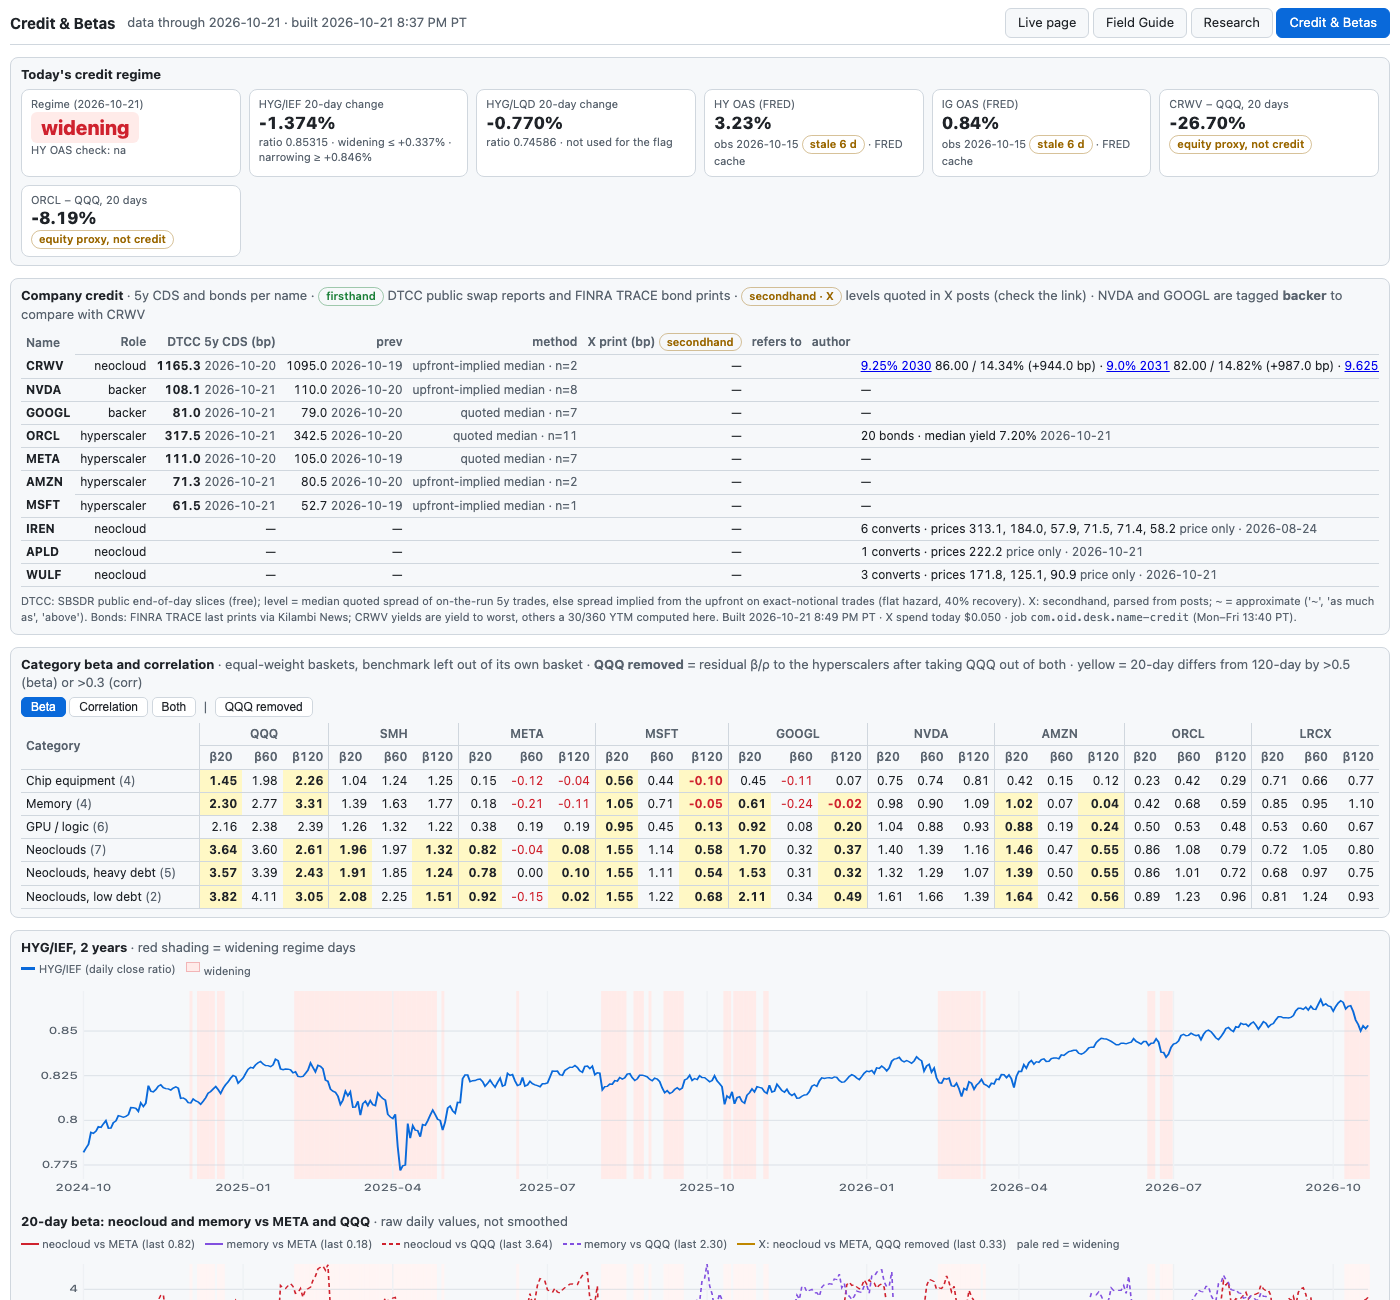
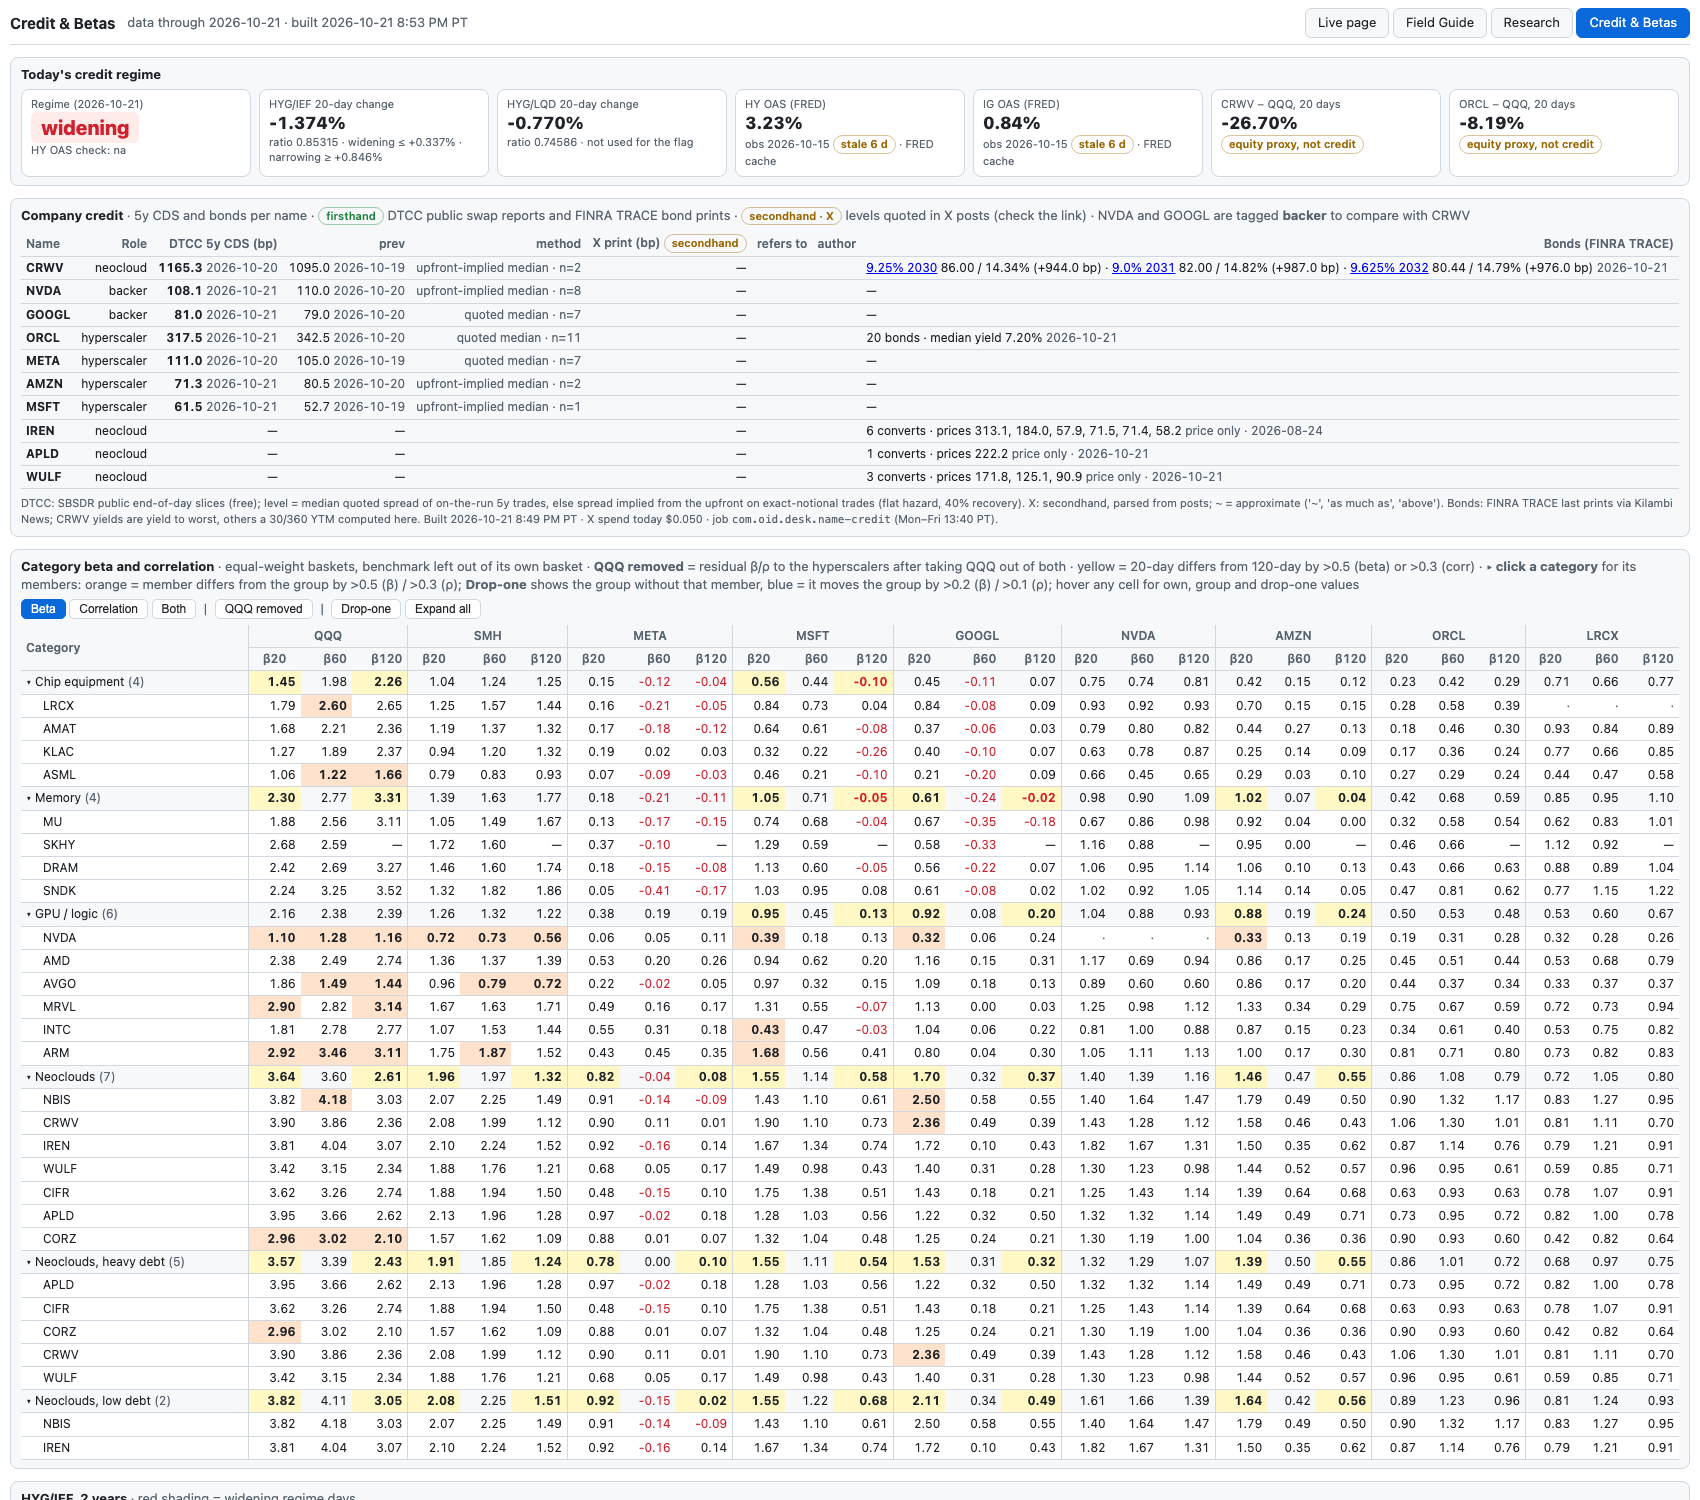
mini-oid-collector: sync from Mac mini @ 7242704 (2026-10-21 20:55 PDT)
Mini commits covered:
- 7242704 sync mini live code 2026-10-21 20:55 PDT

diff --git a/mini-oid-collector/oid-live-page/credit.html b/mini-oid-collector/oid-live-page/credit.html
@@ -37,8 +37,8 @@ svg{display:block;width:100%;font-size:10px}.lg{display:flex;gap:10px;flex-wrap:
 <section id="nc"><h2>Company credit <span class="mut" style="font-weight:400">· 5y CDS and bonds per name · <span class="pill ok">firsthand</span> DTCC public swap reports and FINRA TRACE bond prints · <span class="pill warn">secondhand · X</span> levels quoted in X posts (check the link) · NVDA and GOOGL are tagged <b>backer</b> to compare with CRWV</span></h2>
 <div class="tw"><table id="nct"></table></div><div class="fn" id="ncf" style="margin-top:6px"></div></section>
 
-<section><h2>Category beta and correlation <span class="mut" style="font-weight:400">· equal-weight baskets, benchmark left out of its own basket · <b>QQQ removed</b> = residual β/ρ to the hyperscalers after taking QQQ out of both · yellow = 20-day differs from 120-day by &gt;0.5 (beta) or &gt;0.3 (corr)</span></h2>
-<div class="ctl" style="margin-bottom:6px"><button data-k="beta" class="on">Beta</button> <button data-k="corr">Correlation</button> <button data-k="both">Both</button> <span class="mut" style="margin:0 4px">|</span> <button id="xq" title="QQQ removed: within each window the basket and the hyperscaler are both regressed on QQQ, then β/ρ are taken on the residuals. Hyperscaler benchmarks only.">QQQ removed</button></div>
+<section><h2>Category beta and correlation <span class="mut" style="font-weight:400">· equal-weight baskets, benchmark left out of its own basket · <b>QQQ removed</b> = residual β/ρ to the hyperscalers after taking QQQ out of both · yellow = 20-day differs from 120-day by &gt;0.5 (beta) or &gt;0.3 (corr) · <b>▸ click a category</b> for its members: orange = member differs from the group by &gt;0.5 (β) / &gt;0.3 (ρ); <b>Drop-one</b> shows the group without that member, blue = it moves the group by &gt;0.2 (β) / &gt;0.1 (ρ); hover any cell for own, group and drop-one values</span></h2>
+<div class="ctl" style="margin-bottom:6px"><button data-k="beta" class="on">Beta</button> <button data-k="corr">Correlation</button> <button data-k="both">Both</button> <span class="mut" style="margin:0 4px">|</span> <button id="xq" title="QQQ removed: within each window the basket and the hyperscaler are both regressed on QQQ, then β/ρ are taken on the residuals. Hyperscaler benchmarks only.">QQQ removed</button> <span class="mut" style="margin:0 4px">|</span> <button id="dropb" title="Member rows show the category value recomputed without that company (drop-one). Blue = removing it moves the group by more than 0.2 (β) or 0.1 (ρ).">Drop-one</button> <button id="expall">Expand all</button></div>
 <div class="tw"><table id="tb"></table></div></section>
 
 <section><h2>HYG/IEF, 2 years <span class="mut" style="font-weight:400">· red shading = widening regime days</span></h2>
@@ -67,16 +67,29 @@ function cards(){
  `<div class="cd"><div class="k">CRWV − QQQ, 20 days</div><div class="v">${sg(s.crwv_minus_qqq_20d_pct,2)}%</div><div class="k"><span class="pill warn">equity proxy, not credit</span></div></div>`+
  `<div class="cd"><div class="k">ORCL − QQQ, 20 days</div><div class="v">${sg(s.orcl_minus_qqq_20d_pct,2)}%</div><div class="k"><span class="pill warn">equity proxy, not credit</span></div></div>`;
 }
+// PERCOMPANY 10/21: caret expands a category into its members (own β/ρ, distance from the group, drop-one group value)
+const OPEN=new Set(JSON.parse(localStorage.getItem('credOpen')||'[]'));let DROP=false;
 function table(){
- const L=D.latest,B=XQ?(L.hyperscalers_qqq_removed||[]):L.benchmarks,W=L.windows,ks=(MODE==='both'?['beta','corr']:[MODE]).map(k=>XQ?'x'+k:k);
- let h=`<tr><th rowspan="2">Category</th>`+B.map(b=>`<th class="g" colspan="${W.length*ks.length}">${E(b)}</th>`).join('')+`</tr><tr>`;
+ const L=D.latest,B=XQ?(L.hyperscalers_qqq_removed||[]):L.benchmarks,W=L.windows,ks=(MODE==='both'?['beta','corr']:[MODE]).map(k=>XQ?'x'+k:k),M=L.members||{};
+ let h=`<tr><th rowspan="2">Category${DROP?' <span class="mut">· member rows = group without that name</span>':''}</th>`+B.map(b=>`<th class="g" colspan="${W.length*ks.length}">${E(b)}</th>`).join('')+`</tr><tr>`;
  h+=B.map(()=>ks.map(k=>W.map((w,i)=>`<th class="${i===0&&k===ks[0]?'g':''}" style="${i===0&&k===ks[0]?'border-left:1px solid var(--line)':''}">${k.startsWith('x')?'x':''}${k.endsWith('beta')?'β':'ρ'}${w}</th>`).join('')).join('')).join('')+`</tr>`;
- for(const [c,lbl] of CATS){const r=L.rolling[c];if(!r)continue;
-  h+=`<tr><td title="${E((L.categories[c]||[]).join(', '))}">${E(lbl)} <span class="mut">(${(L.categories[c]||[]).length})</span></td>`;
+ for(const [c,lbl] of CATS){const r=L.rolling[c];if(!r)continue;const mem=M[c]||{},op=OPEN.has(c),names=L.categories[c]||[];
+  h+=`<tr class="cat" data-c="${E(c)}" style="cursor:pointer"><td title="${E(names.join(', '))}"><span class="car">${op?'▾':'▸'}</span> ${E(lbl)} <span class="mut">(${names.length})</span></td>`;
   for(const b of B){const x=r[b]||{};ks.forEach((k,ki)=>{const thr=k.endsWith('beta')?0.5:0.3;const a=x[k+'20'],z=x[k+'120'];const flag=a!=null&&z!=null&&Math.abs(a-z)>thr;
    W.forEach((w,i)=>{const v=x[k+w];h+=`<td class="${i===0&&ki===0?'g0 ':''}${flag&&(w===20||w===120)?'hl ':''}${v!=null&&v<0?'neg':''}" ${flag?`title="${k} 20d ${f(a,3)} vs 120d ${f(z,3)}: diff ${sg(a-z,3)}"`:''}>${f(v,2)}</td>`})})}
-  h+=`</tr>`}
+  h+=`</tr>`;
+  if(op)for(const s of names){const m=mem[s]||{};
+   h+=`<tr class="mem"><td style="padding-left:22px;background:#fff">${E(s)}</td>`;
+   for(const b of B){const x=m[b]||{},g=r[b]||{};ks.forEach((k,ki)=>{const thr=k.endsWith('beta')?0.5:0.3,sthr=k.endsWith('beta')?0.2:0.1;
+    W.forEach((w,i)=>{const own=x[k+w],dr=x['drop_'+k+w],gv=g[k+w];
+     if(s===b){h+=`<td class="${i===0&&ki===0?'g0':''} mut" style="background:#fff" title="${E(s)} is the benchmark">·</td>`;return}
+     const dist=own!=null&&gv!=null?own-gv:null,shift=dr!=null&&gv!=null?gv-dr:null;
+     const v=DROP?dr:own,far=DROP?(shift!=null&&Math.abs(shift)>sthr):(dist!=null&&Math.abs(dist)>thr);
+     const tip=`${s} vs ${b} ${k}${w}: own ${f(own,3)} · group ${f(gv,3)} (own − group ${sg(dist,3)}) · group without ${s} ${f(dr,3)} (${s} moves the group ${sg(shift,3)})`;
+     h+=`<td class="${i===0&&ki===0?'g0 ':''}${v!=null&&v<0?'neg':''}" style="background:${far?(DROP?'#ddf4ff':'#ffe2cc'):'#fff'};${far?'font-weight:700':''}" title="${E(tip)}">${f(v,2)}</td>`})})}
+   h+=`</tr>`}}
  document.getElementById('tb').innerHTML=h;
+ document.querySelectorAll('#tb tr.cat').forEach(tr=>tr.onclick=()=>{const c=tr.dataset.c;OPEN.has(c)?OPEN.delete(c):OPEN.add(c);localStorage.setItem('credOpen',JSON.stringify([...OPEN]));table()});
 }
 function scale(a,b,c,d){return v=>c+(v-a)*(d-c)/((b-a)||1)}
 function axes(svg,X0,X1,Y0,Y1,yt,dates,xs,ys){
@@ -108,7 +121,10 @@ function foot(){const L=D.latest;document.getElementById('fn').innerHTML=
  document.getElementById('asof').textContent=`data through ${L.date} · built ${L.built_pt}`}
 document.querySelectorAll('.ctl button[data-k]').forEach(b=>b.onclick=()=>{MODE=b.dataset.k;document.querySelectorAll('.ctl button[data-k]').forEach(x=>x.classList.toggle('on',x===b));table()});
 document.getElementById('xq').onclick=e=>{XQ=!XQ;e.target.classList.toggle('on',XQ);table()};
-if(location.hash==='#x'){XQ=true;document.getElementById('xq').classList.add('on')}  // /credit#x opens with QQQ removed
+document.getElementById('dropb').onclick=e=>{DROP=!DROP;e.target.classList.toggle('on',DROP);table()};
+document.getElementById('expall').onclick=e=>{const all=CATS.every(([c])=>OPEN.has(c));CATS.forEach(([c])=>all?OPEN.delete(c):OPEN.add(c));localStorage.setItem('credOpen',JSON.stringify([...OPEN]));e.target.textContent=all?'Expand all':'Collapse all';table()};
+if(/[#&]open/.test(location.hash))CATS.forEach(([c])=>OPEN.add(c));if(/[#&]drop/.test(location.hash)){DROP=true;document.getElementById('dropb').classList.add('on')}
+if(/[#&]x\b/.test(location.hash)){XQ=true;document.getElementById('xq').classList.add('on')}  // /credit#x opens with QQQ removed
 // NAMECREDIT 10/21: company credit section (raw values from ~/oid-data/research/name-credit/latest.json)
 function nc(N){const O=['CRWV','NVDA','GOOGL','ORCL','META','AMZN','MSFT','NBIS','IREN','APLD','WULF','CIFR','CORZ'];
  const KEY={CRWV:['21873SAB4','21873SAC2','21873SAK4']};let h=`<tr><th>Name</th><th>Role</th><th>DTCC 5y CDS (bp)</th><th>prev</th><th>method</th><th>X print (bp) <span class="pill warn">secondhand</span></th><th>refers to</th><th>author</th><th>Bonds (FINRA TRACE)</th></tr>`;

diff --git a/mini-oid-collector/oid-score/research/spread_corr.py b/mini-oid-collector/oid-score/research/spread_corr.py
@@ -160,6 +160,54 @@ def main():
         for row in rows: wr.writerow({k: ("" if row.get(k) is None else row[k]) for k in cols})
     tmp.replace(OUT / "spread_corr_daily.csv")
     L = rows[-1]
+    # PERCOMPANY 10/21: latest-day per-member beta/corr (same windows/benchmarks as the group) plus a drop-one group value
+    # (the category basket without that member), so a member that skews the group shows up. Raw values, no smoothing.
+    iL = days.index(L["date"])
+    def roll(y, b, w, i):
+        pr = [(R[b][j], y[j]) for j in range(max(1, i - w + 1), i + 1) if R[b][j] is not None and y[j] is not None]
+        be, co = stats([p[0] for p in pr], [p[1] for p in pr]) if len(pr) >= max(10, int(0.75 * w)) else (None, None)
+        xb = xc = None
+        if b in HYPER:
+            tr = [(R["QQQ"][j], R[b][j], y[j]) for j in range(max(1, i - w + 1), i + 1) if R["QQQ"][j] is not None and R[b][j] is not None and y[j] is not None]
+            if len(tr) >= max(10, int(0.75 * w)):
+                q = [t[0] for t in tr]
+                def resid(v):
+                    bb, _ = stats(q, v)
+                    if bb is None: return None
+                    mq, mv = sum(q) / len(q), sum(v) / len(v)
+                    return [vi - (mv + bb * (qi - mq)) for qi, vi in zip(q, v)]
+                ex, ey = resid([t[1] for t in tr]), resid([t[2] for t in tr])
+                if ex and ey: xb, xc = stats(ex, ey)
+        rd = lambda v: round(v, 3) if v is not None else None
+        return {"beta": rd(be), "corr": rd(co), "xbeta": rd(xb), "xcorr": rd(xc)}
+    members = {}
+    for c, names in CAT.items():
+        members[c] = {}
+        for s_ in names:
+            members[c][s_] = {}
+            for b in BENCH:
+                if s_ == b: continue
+                rest = [n for n in names if n != s_]
+                dy = basket(rest, b) if rest else None
+                for w in WINS:
+                    v = roll(R[s_], b, w, iL)
+                    d = roll(dy, b, w, iL) if dy else {}
+                    if b not in HYPER: v.pop("xbeta"); v.pop("xcorr"); d.pop("xbeta", None); d.pop("xcorr", None)
+                    for k, x in v.items(): members[c][s_].setdefault(b, {})[f"{k}{w}"] = x
+                    for k, x in d.items(): members[c][s_][b][f"drop_{k}{w}"] = x
+    tick_rows = []
+    for c, mm in members.items():
+        for s_, bb in mm.items():
+            for b, vals in bb.items():
+                tick_rows.append({"date": L["date"], "category": c, "ticker": s_, "bench": b, **vals})
+    tcols = ["date", "category", "ticker", "bench"] + [f"{p}{k}{w}" for p in ("", "drop_") for k in ("beta", "corr", "xbeta", "xcorr") for w in WINS]
+    tp = OUT / "spread_corr_tickers_daily.csv"; keep = []
+    if tp.exists():
+        with open(tp, newline="") as f: keep = [r for r in csv.DictReader(f) if r["date"] != L["date"]]
+    with open(str(tp) + ".tmp", "w", newline="") as f:
+        wr = csv.DictWriter(f, tcols); wr.writeheader()
+        for r in keep + tick_rows: wr.writerow({k: ("" if r.get(k) is None else r.get(k)) for k in tcols})
+    Path(str(tp) + ".tmp").replace(tp)
     latest = {"schema": "oid-spread-corr/1", "built_pt": now.strftime("%Y-%m-%d %-I:%M %p PT"), "date": L["date"], "rows": len(rows), "first_date": rows[0]["date"],
               "research_only": True,
               "spreads": {k: L[k] for k in cols[1:15]},
@@ -167,13 +215,15 @@ def main():
               "categories": CAT, "category_source": CAT_SRC + " (+CORZ in heavy-debt per desk list)", "benchmarks": BENCH, "windows": WINS,
               "rolling": {c: {b: {f"{k}{w}": L[f"{c}__{b}__{k}{w}"] for w in WINS for k in (("beta", "corr", "xbeta", "xcorr") if b in HYPER else ("beta", "corr"))} for b in BENCH} for c in CAT},
               "hyperscalers_qqq_removed": HYPER,
+              "members": members, "members_csv": str(OUT / "spread_corr_tickers_daily.csv"),
               "notes": ["Basket = equal-weight daily close-to-close return of members with data that day; the benchmark is excluded from its own basket (e.g. chip_equip vs LRCX is ex-LRCX).",
                         "regime: 20-session % change in HYG/IEF vs its trailing-252-session terciles (min 60 obs). Bottom tercile = widening, top = narrowing. HYG/IEF falls when spreads widen.",
                         "regime_hy_check: HY OAS 20-session change (>=+15bp widening, <=-15bp narrowing) vs regime: agree/partial/disagree/na. FRED is optional; OAS is forward-filled from its last observation (hy_oas_obs_date).",
                         "AI-debt proxy is equity, not credit: CRWV and ORCL 20-session return minus QQQ (no free CDS/bond feed).",
                         "Bars: Alpaca SIP daily, adjustment=all (HYG/LQD/IEF ratios are total-return-ish, not price-only). Rows need >=75% of the window with data; newer listings (CRWV, SNDK, etc.) start later.",
                         "xbeta/xcorr (QQQ removed, hyperscaler benchmarks only): within each window, regress the basket's and the benchmark's daily returns on QQQ (OLS), then take the OLS beta and correlation of basket residuals on benchmark residuals.",
-                        "Before rolling numbers fill: 20d needs 15 obs, 60d 45, 120d 90."],
+                        "Before rolling numbers fill: 20d needs 15 obs, 60d 45, 120d 90.",
+                        "members (latest day only; history in spread_corr_tickers_daily.csv, one row per date/category/ticker/benchmark): each member's own beta/corr (and xbeta/xcorr vs hyperscalers) on the same windows, plus drop_* = the category basket recomputed without that member. Group minus drop_ = how much that member moves the group number."],
               "columns": cols, "csv": str(OUT / "spread_corr_daily.csv"), "elapsed_s": round(time.time() - t0, 1)}
     (OUT / "latest.json.tmp").write_text(json.dumps(latest, indent=1)); (OUT / "latest.json.tmp").replace(OUT / "latest.json")
     print(f"[{now:%Y-%m-%d %H:%M %Z}] spread-corr ok: {len(rows)} rows {rows[0]['date']}..{L['date']} regime={L['regime']} hygief20={L['hyg_ief_chg20_pct']} "

diff --git a/mini-oid-collector/oid-live-page/guide/docs/36-credit-betas.md b/mini-oid-collector/oid-live-page/guide/docs/36-credit-betas.md
@@ -1,7 +1,7 @@
 # 36 · Credit & Betas tab
 [← Index](README.md)
 
-> Added **Wed 10/21/2026, 8:15 PM PT**; ORCL benchmark and QQQ-removed view added 8:25 PM PT; NVDA benchmark and Company credit section added 8:50 PM PT. Header button **Credit & Betas**, next to Research. Address: `/credit`. Data endpoint: `/credit.json`. Research only, not an order signal.
+> Added **Wed 10/21/2026, 8:15 PM PT**; ORCL benchmark and QQQ-removed view added 8:25 PM PT; NVDA benchmark and Company credit section added 8:50 PM PT; per-company rows added 8:55 PM PT. Header button **Credit & Betas**, next to Research. Address: `/credit`. Data endpoint: `/credit.json`. Research only, not an order signal.
 
 ![Credit & Betas tab: regime card, category beta/correlation table, HYG/IEF and 20-day beta charts](img/credit-betas-tab.png)
 
@@ -18,10 +18,13 @@
 | CRWV − QQQ, ORCL − QQQ | 20-day return gap, tagged **equity proxy, not credit**. Real company credit is in the next row. |
 | Company credit | Per-name 5y CDS from DTCC public trade reports (firsthand), CDS levels quoted on X (tagged **secondhand**, with author link) and FINRA TRACE bond prices and yields. NVDA and GOOGL are tagged **backer**. See [37](37-company-credit.md). |
 | Beta / correlation table | One row per category (chip equipment, memory, GPU/logic, neoclouds, neoclouds with heavy debt, neoclouds with low debt). Columns are β or ρ over 20/60/120 days against QQQ, SMH, META, MSFT, GOOGL, NVDA, AMZN, ORCL and LRCX. The Beta, Correlation and Both buttons switch views. **QQQ removed** switches the table to xβ/xρ against the hyperscalers plus NVDA only (META, MSFT, GOOGL, NVDA, AMZN, ORCL); NVDA is in the set as CRWV's backer (about a 10% stake plus a capacity backstop); the same yellow rule applies. `/credit#x` opens the tab with QQQ removed already on. **Yellow** marks a 20-day value that differs from the 120-day value by more than 0.5 (beta) or 0.3 (correlation); hover to see the gap. Negative values are red. Hover a category to see its members. |
+| Per-company rows | Click a category row (▸) or **Expand all** to open one row per member with the same columns: the member's own β/ρ at 20/60/120 days against each benchmark (xβ/xρ when **QQQ removed** is on). **Orange** = the member differs from the group by more than 0.5 (β) or 0.3 (ρ). **Drop-one** switches member rows to the group value recomputed without that member; **blue** = removing it moves the group by more than 0.2 (β) or 0.1 (ρ). Hover any member cell for own, group, own − group, drop-one and the shift. A member that is also the benchmark (e.g. NVDA vs NVDA) shows ·. Open categories are remembered in the browser; `/credit#open` opens all, `#open&drop` opens all in drop-one view. |
 | HYG/IEF chart | Two years of the daily ratio, with widening-regime days shaded red. |
 | 20-day beta chart | Neocloud and memory 20-day beta to META (solid) and to QQQ (dashed), plus the gold **X** line: neocloud 20-day QQQ-removed beta to META. Widening days are lightly shaded. |
 | Footnote | Source, method, file paths and **Last updated**. |
 
 **Method in one paragraph.** Each basket is the equal-weight daily close-to-close return of its members that have data that day; a benchmark is left out of its own basket (equipment vs LRCX is ex-LRCX). β is the rolling OLS slope and ρ the Pearson correlation, and a value needs at least 75% of its window. **QQQ removed** (`<cat>__<hyperscaler>__xbeta{20,60,120}` / `xcorr`): inside each window, the basket's and the hyperscaler's daily returns are each regressed on QQQ, and β/ρ are taken on the two residual series. This shows whether a category follows META, MSFT, GOOGL, NVDA, AMZN or ORCL beyond what the Nasdaq explains. The regime compares the 20-session % change in HYG/IEF with its own trailing 252-session terciles. FRED is optional: when it is unreachable, the job keeps its cache and the desk market tape's latest OAS print.
+
+**Per-company data.** `latest.json` → `members[category][ticker][benchmark]` holds the latest day's `beta20…corr120`, `xbeta*/xcorr*` (hyperscaler benchmarks and NVDA) and `drop_*` (the basket without that ticker, same method). The history is in `spread_corr_tickers_daily.csv`, one row per date/category/ticker/benchmark, appended each run; the wide daily CSV is unchanged.
 
 **Who reads the files.** Research Bot (two-year spread-vs-correlation backtest), Chart Bot and Macro Bot read `spread_corr_daily.csv` / `latest.json` directly instead of rebuilding them. Background: Research Bot's 10/21 finding that the builders' beta to META rises from about 0.40 to 1.28 when spreads widen, while QQQ/SMH beta does not (`research-bot-followup_meta_minute_and_credit-20261021.md` in the same folder).
